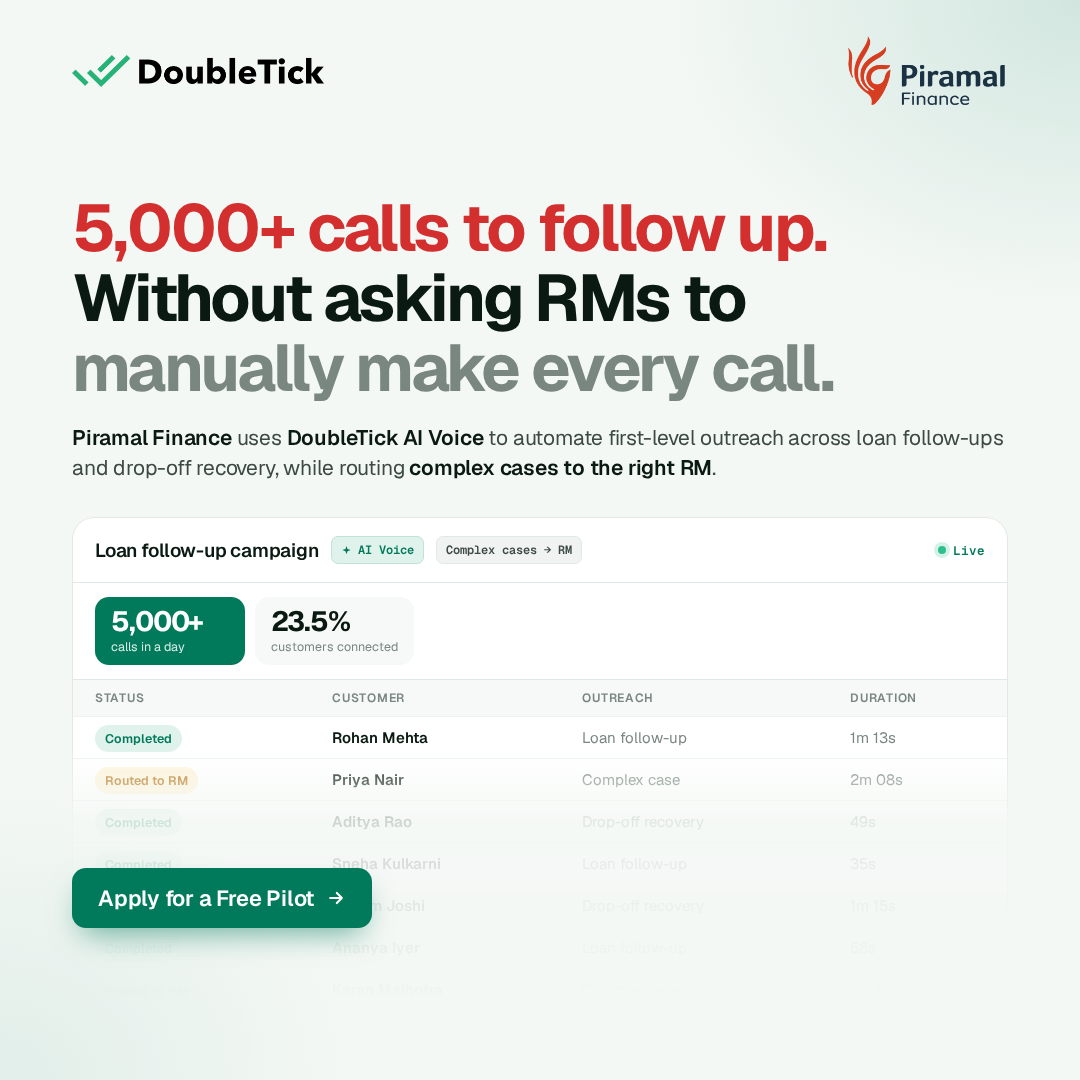
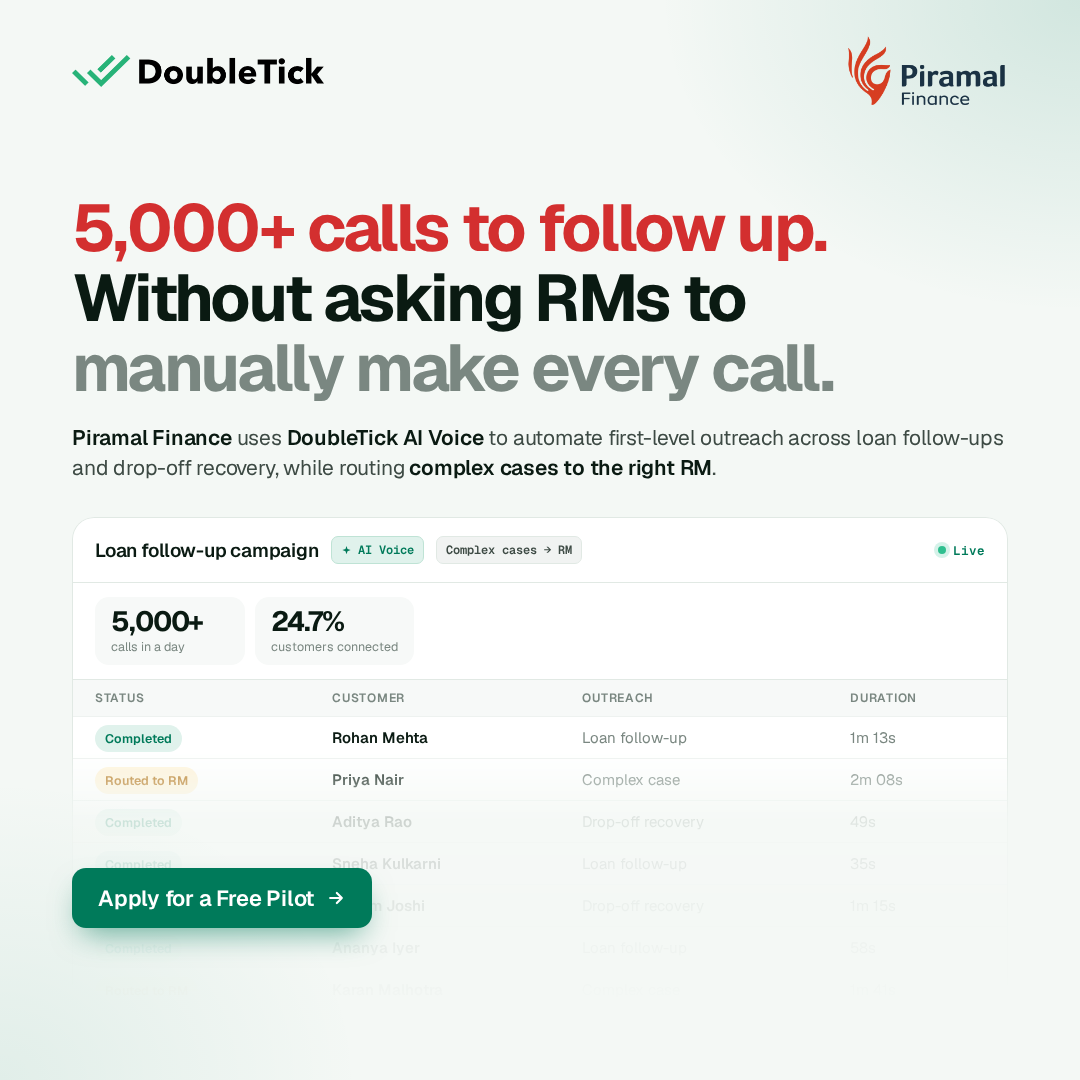
feat: neutral 5,000+ card and 24.7% connect rate in Piramal volume ad
Claude-Session: https://claude.ai/code/session_013Hi5o4KgvuLbKTeGkStAKX

Changed region(s): [[0.0611, 0.55, 0.3361, 0.6417]]

diff --git a/ads/doubletick-case-piramal-volume/index.html b/ads/doubletick-case-piramal-volume/index.html
@@ -111,8 +111,8 @@
   <div class="vis"><div class="dash">
     <div class="dh"><span class="tt">Loan follow-up campaign</span><span class="chip ai mono"><svg width="11" height="11" viewBox="0 0 24 24" fill="#007A5A"><path d="M12 2l2.2 6.6L21 11l-6.8 2.4L12 20l-2.2-6.6L3 11l6.8-2.4z"/></svg>AI Voice</span><span class="chip sp mono">Complex cases → RM</span><span class="live mono"><i></i>Live</span></div>
     <div class="tabs">
-      <div class="tab on"><span class="v">5,000+</span><span class="l">calls in a day</span></div>
-      <div class="tab"><span class="v">23.5%</span><span class="l">customers connected</span></div>
+      <div class="tab"><span class="v">5,000+</span><span class="l">calls in a day</span></div>
+      <div class="tab"><span class="v">24.7%</span><span class="l">customers connected</span></div>
       
     </div>
     <table><thead><tr><th>Status</th><th>Customer</th><th>Outreach</th><th>Duration</th></tr></thead><tbody><tr><td><span class="st c">Completed</span></td><td class="nm">Rohan Mehta</td><td class="ty">Loan follow-up</td><td class="du">1m 13s</td></tr><tr><td><span class="st r">Routed to RM</span></td><td class="nm">Priya Nair</td><td class="ty">Complex case</td><td class="du">2m 08s</td></tr><tr><td><span class="st c">Completed</span></td><td class="nm">Aditya Rao</td><td class="ty">Drop-off recovery</td><td class="du">49s</td></tr><tr><td><span class="st c">Completed</span></td><td class="nm">Sneha Kulkarni</td><td class="ty">Loan follow-up</td><td class="du">35s</td></tr><tr><td><span class="st c">Completed</span></td><td class="nm">Vikram Joshi</td><td class="ty">Drop-off recovery</td><td class="du">1m 15s</td></tr><tr><td><span class="st c">Completed</span></td><td class="nm">Ananya Iyer</td><td class="ty">Loan follow-up</td><td class="du">58s</td></tr><tr><td><span class="st r">Routed to RM</span></td><td class="nm">Karan Malhotra</td><td class="ty">Complex case</td><td class="du">1m 41s</td></tr><tr><td><span class="st c">Completed</span></td><td class="nm">Neha Gupta</td><td class="ty">Drop-off recovery</td><td class="du">44s</td></tr><tr><td><span class="st c">Completed</span></td><td class="nm">Arjun Desai</td><td class="ty">Loan follow-up</td><td class="du">1m 02s</td></tr></tbody></table>
